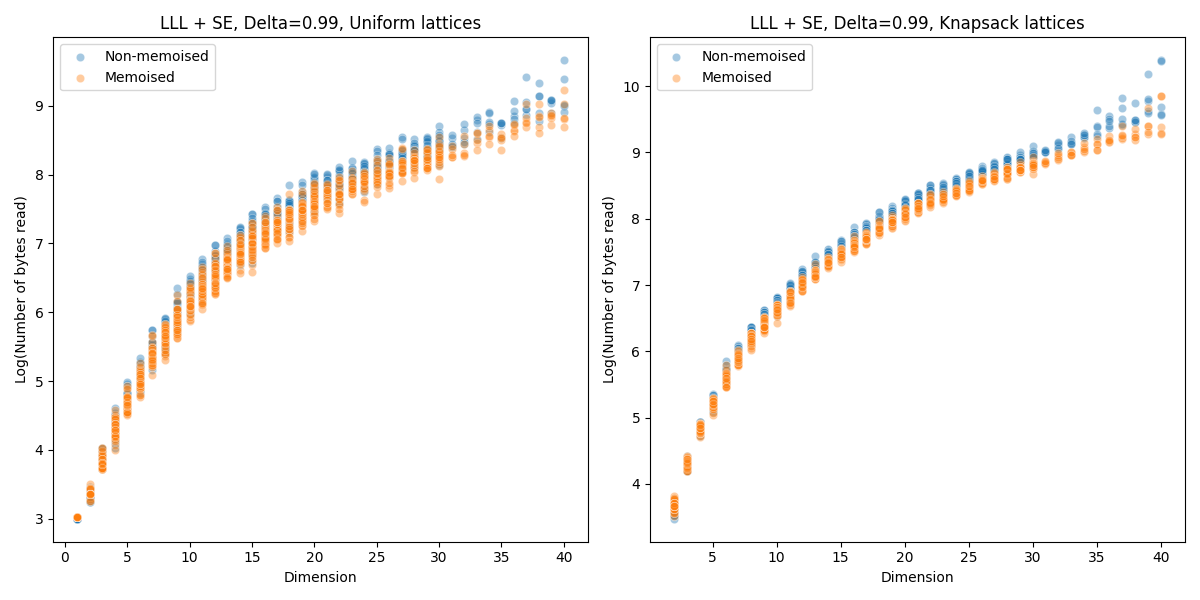
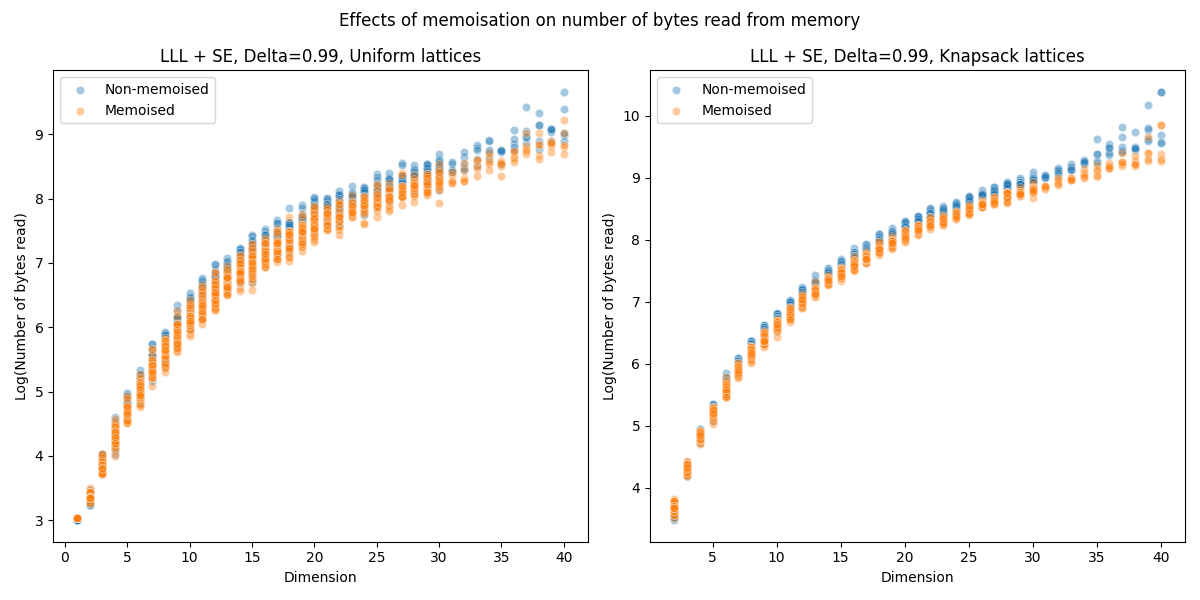
Tidy up plots

diff --git a/finished_tests/plot5.py b/finished_tests/plot5.py
@@ -21,28 +21,30 @@ for name, df in dataframes.items():
 # Create a 2x2 subplot
 fig, axs = plt.subplots(1, 2, figsize=(12, 6))
 
+fig.suptitle('Effects of memoisation on number of bytes read from memory')
+
 titles = ["LLL + SE, Delta=0.99, Uniform lattices",
           "LLL + SE, Delta=0.99, Knapsack lattices"]
 
 # Plotting
 for i, (name, df) in enumerate(dataframes.items()):
     ax = axs[0]
-    sns.scatterplot(data=df[df['lattice_type'] == 'Uniform'], x="dimension", y=np.log10(
-        df["reads"]), ax=ax, alpha=0.4)
+    sns.scatterplot(data=df[df['lattice_type'] == 'Uniform'], x="dimension",
+                    y=np.log10(df["reads"]), ax=ax, alpha=0.4)
     ax.set_title(titles[0])
     ax.set_xlabel("Dimension")
     ax.set_ylabel("Log(Number of bytes read)")
-    ax.legend(labels = ['Non-memoised', 'Memoised'])
-    
+    ax.legend(labels=['Non-memoised', 'Memoised'])
+
 # Plotting
 for i, (name, df) in enumerate(dataframes.items()):
     ax = axs[1]
-    sns.scatterplot(data=df[df['lattice_type'] == 'Knapsack'], x="dimension", y=np.log10(
-        df["reads"]), ax=ax, alpha=0.4)
+    sns.scatterplot(data=df[df['lattice_type'] == 'Knapsack'], x="dimension",
+                    y=np.log10(df["reads"]), ax=ax, alpha=0.4)
     ax.set_title(titles[1])
     ax.set_xlabel("Dimension")
     ax.set_ylabel("Log(Number of bytes read)")
-    ax.legend(labels = ['Non-memoised', 'Memoised'])
+    ax.legend(labels=['Non-memoised', 'Memoised'])
 
 plt.tight_layout()
 

diff --git a/finished_tests/plot4.py b/finished_tests/plot4.py
@@ -21,6 +21,8 @@ for name, df in dataframes.items():
 # Create a 2x2 subplot
 fig, axs = plt.subplots(1, 2, figsize=(12, 6))
 
+fig.suptitle("Effects of memoisation on algorithm runtime")
+
 titles = ["LLL + SE, Non-memoised, Uniform lattices",
           "LLL + SE, Delta=0.99, Knapsack lattices"]
 
@@ -31,7 +33,7 @@ for i, (name, df) in enumerate(dataframes.items()):
         df["median"]*1000), ax=ax, alpha=0.4)
     ax.set_title(titles[0])
     ax.set_xlabel("Dimension")
-    ax.set_ylabel("Log(Median Time in ms)")
+    ax.set_ylabel("log(Median Time in ms)")
     ax.legend(labels = ['Non-memoised', 'Memoised'])
     ax.set_ylim([-1, 3])
 
@@ -42,7 +44,7 @@ for i, (name, df) in enumerate(dataframes.items()):
         df["median"]*1000), ax=ax, alpha=0.4)
     ax.set_title(titles[1])
     ax.set_xlabel("Dimension")
-    ax.set_ylabel("Log(Median Time in ms)")
+    ax.set_ylabel("log(Median Time in ms)")
     ax.legend(labels = ['Non-memoised', 'Memoised'])
     ax.set_ylim([-1, 3])
 
@@ -50,6 +52,3 @@ plt.tight_layout()
 
 plt.savefig(f"report/time_dimension_mem.png")
 plt.show()
-
-mean_times = [df["mean"].mean() for df in dataframes.values()]
-print(mean_times)

diff --git a/finished_tests/plot2.py b/finished_tests/plot2.py
@@ -17,7 +17,7 @@ mad_long_double = df_long_double.groupby('dimension').apply(
 
 # Create subplots
 fig, axes = plt.subplots(nrows=1, ncols=2, figsize=(12, 6))
-fig.suptitle('Max Absolute Difference per dimension')
+fig.suptitle('Max Absolute Difference vs Dimension using two different variable types')
 
 # Plot for double precision
 axes[0].plot(mad_double.index, mad_double.values, marker='o', color='cornflowerblue')

diff --git a/finished_tests/plot3.py b/finished_tests/plot3.py
@@ -21,7 +21,7 @@ for (title, pos, df) in dfs:
 # Create a 2x3 subplots figure
 fig, axes = plt.subplots(2, 3, figsize=(16, 9))
 
-fig.suptitle("Accuracy of multiple algorithms vs Dimension")
+fig.suptitle("Accuracy of various algorithm configurations vs Dimension")
 
 for i, (title, pos, df)  in enumerate(dfs):
     if i != 5:  # Skip axes[5]

diff --git a/finished_tests/plot1.py b/finished_tests/plot1.py
@@ -21,6 +21,8 @@ for name, df in dataframes.items():
 # Create a 2x2 subplot
 fig, axs = plt.subplots(1, 2, figsize=(12, 6))
 
+fig.suptitle("Effects of changing delta on median runtime of LLL + SE")
+
 titles = ["LLL + SE, Delta=0.75",
           "LLL + SE, Delta=0.99"]
 
